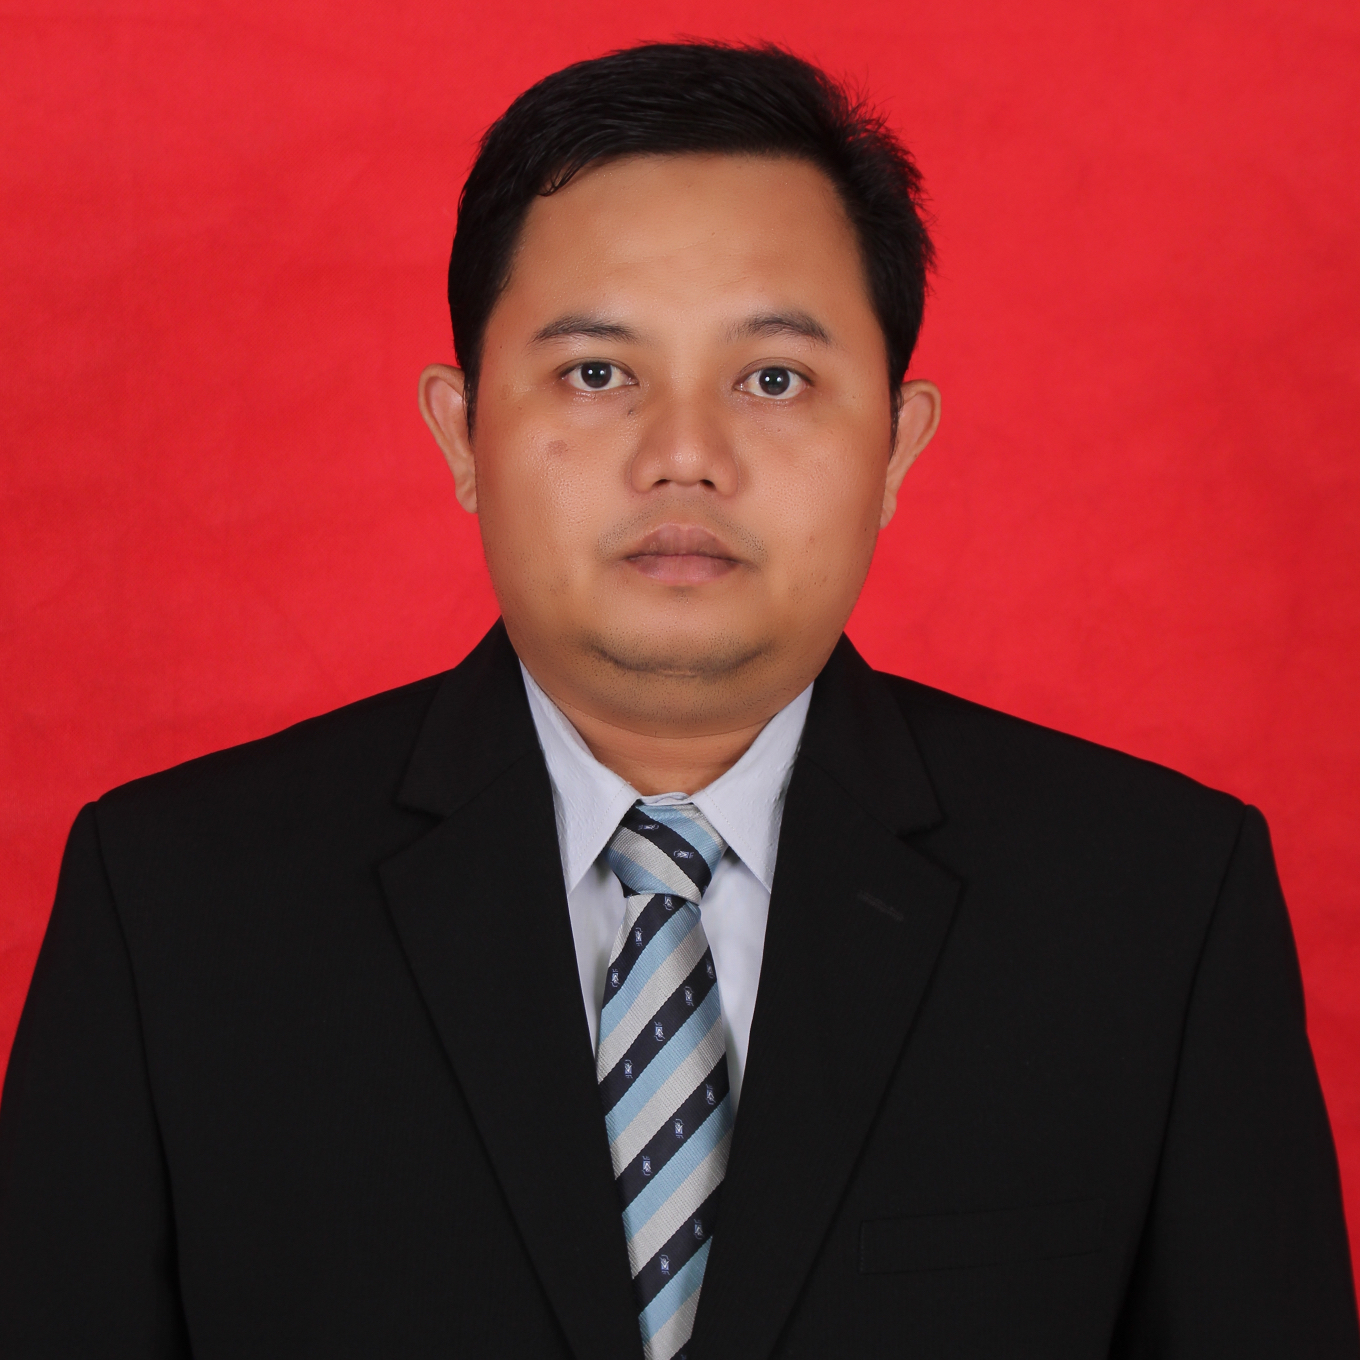
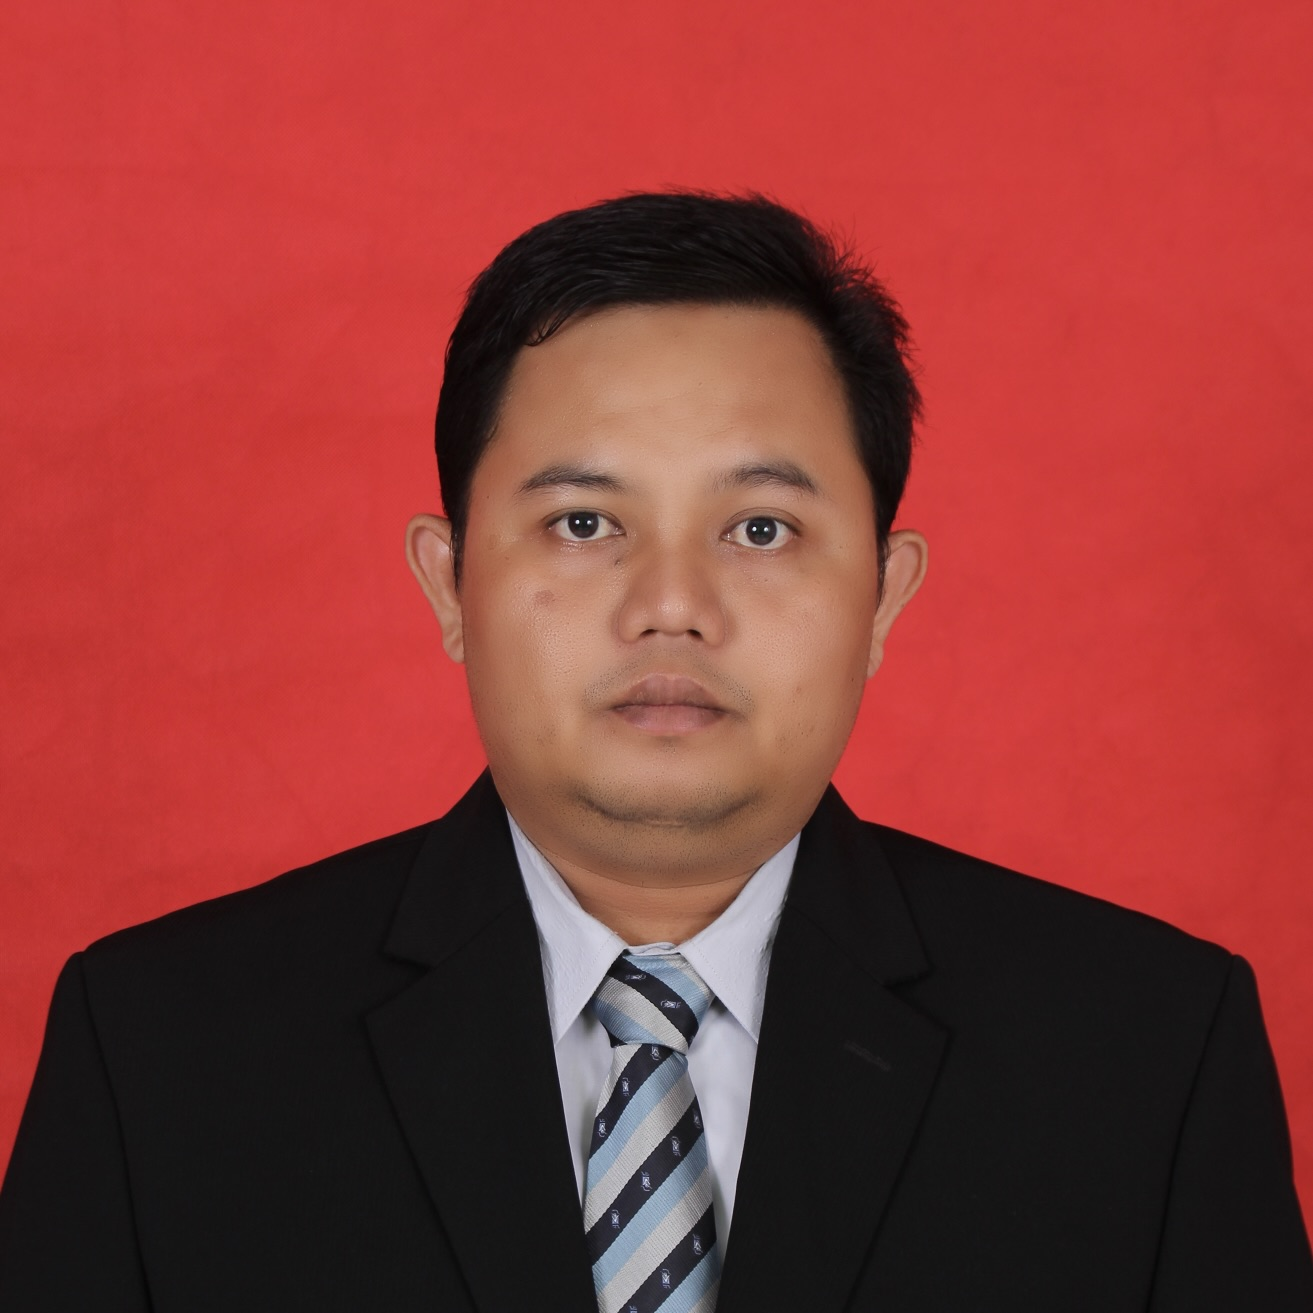
fix add foto and change wording

diff --git a/src/config/Data.js b/src/config/Data.js
@@ -4,8 +4,10 @@ import {
   blog,
   dep_ib_mu,
   pak_dim,
+  pak_guf,
   pak_mak,
   pak_mumu,
+  pak_wak,
   pemb_ga_emas,
   pemb_ib_mul,
   pemb_ib_mura,
@@ -140,14 +142,14 @@ export const ORGANISASI = [
   {
     id: 2,
     label: "H. Wakhrodi, S.Pd.I., M.Si",
-    img: pak_mumu,
+    img: pak_wak,
     jabatan: "Dewan Komisaris",
     desc: "<div><b>Pendidikan:</b> -.<br><br><b>Pengalaman Kerja:</b> -.<br><br><b>Dasar Pengangkatan:</b> Keputusan RUPS Tahunan tanggal 26 Mei 2022.</div>",
   },
   {
     id: 3,
     label: "H. Ghufron Halim, S.E, MM",
-    img: "",
+    img: pak_guf,
     jabatan: "Dewan Pengawas Syariah",
     desc: "<div><b>Pendidikan:</b> -.<br><br><b>Pengalaman Kerja:</b> -.<br><br><b>Dasar Pengangkatan:</b> Keputusan RUPS Tahunan tanggal 26 Mei 2022.</div>",
   },
@@ -1145,8 +1147,8 @@ export const WORDING = {
     },
     {
       id: 5,
-      text: "AYO LAPORKAN SEGERA!!",
-      desc: "Kami percaya bahwa pengalaman transaksi perbankan yang berfokus pada kehidupan Anda akan memungkinkan Anda untuk terus bertumbuh.",
+      text: "Assalamualaikum Sahabat Syariah,",
+      desc: "Dalam rangka menjaga kepercayaan nasabah/konsumen, perlindungan terhadap kepentingan konsumen senantiasa menjadi prioritas kami. PT. BPR Syariah Artha Mas Abadi mengedepankan kualitas layanan dalam rangka memberikan solusi bagi konsumen diantaranya melalui layanan pengaduan konsumen.",
     },
   ],
   produk_layanan: [

diff --git a/src/assets/index.js b/src/assets/index.js
@@ -14,6 +14,7 @@ import tab_ib_pen from "./img/tabungan-ib-pendidikan.jpg";
 import tab_ib_qur from "./img/tabungan-ib-qurban.jpg";
 import tab_ib_si from "./img/tabungan-ib-simuda.jpg";
 import dep_ib_mu from "./img/deposito-ib-mudharabah.jpg";
+import form_p from "./img/form-pengaduan.jpg";
 import pro_not from "./img/profile-not-found.jpeg";
 import ayosyariah from "./img/ayosyariah.jpeg";
 import lps_text from "./img/logo-lps-text.png";
@@ -34,6 +35,8 @@ import peng5 from "./img/penghargaan-5.jpg";
 import pak_mumu from "./img/pak-mumu.jpg";
 import pak_dim from "./img/pak-dimyati.jpg";
 import pak_mak from "./img/pak-makin.jpg";
+import pak_guf from "./img/pak-gufron.jpg";
+import pak_wak from "./img/pak-wakhrodi.jpg";
 import visimisi from "./img/visimisi.jpg";
 import whatsapp from "./img/whatsapp.png";
 import no_pic from "./img/no-picture.jpg";
@@ -82,10 +85,13 @@ export {
   pak_mumu,
   pak_dim,
   pak_mak,
+  pak_guf,
+  pak_wak,
   struktur,
   wbsIcon,
   logoNew,
   logoAma,
+  form_p,
   img_bro,
   pro_not,
   banner,

diff --git a/src/pages/Layanan/HubungiKami.js b/src/pages/Layanan/HubungiKami.js
@@ -1,8 +1,8 @@
 import React from "react";
-import { FocusComponentColor, ReactHelmet } from "../../components/atom";
+import { FocusComponentBackground, ReactHelmet } from "../../components/atom";
 import { useLocation } from "react-router-dom";
 import { HubungiSection } from "../../components/section";
-import { contactUs } from "../../assets";
+import { form_p } from "../../assets";
 
 const HubungiKami = () => {
   const location = useLocation();
@@ -12,7 +12,7 @@ const HubungiKami = () => {
         title="Tentang Kami | Bank Artha Mas Abadi"
         url={location.pathname}
       />
-      <FocusComponentColor backgroundColor="#06aed5" img={contactUs} />
+      <FocusComponentBackground image={form_p} />
       <HubungiSection />
     </>
   );

diff --git a/src/components/atom/AtomElements.js b/src/components/atom/AtomElements.js
@@ -90,7 +90,7 @@ export const InformasiSite = styled.section`
   }
 
   .content {
-    width: 70%;
+    width: 80%;
     display: flex;
     flex-direction: column;
     gap: 20px;
